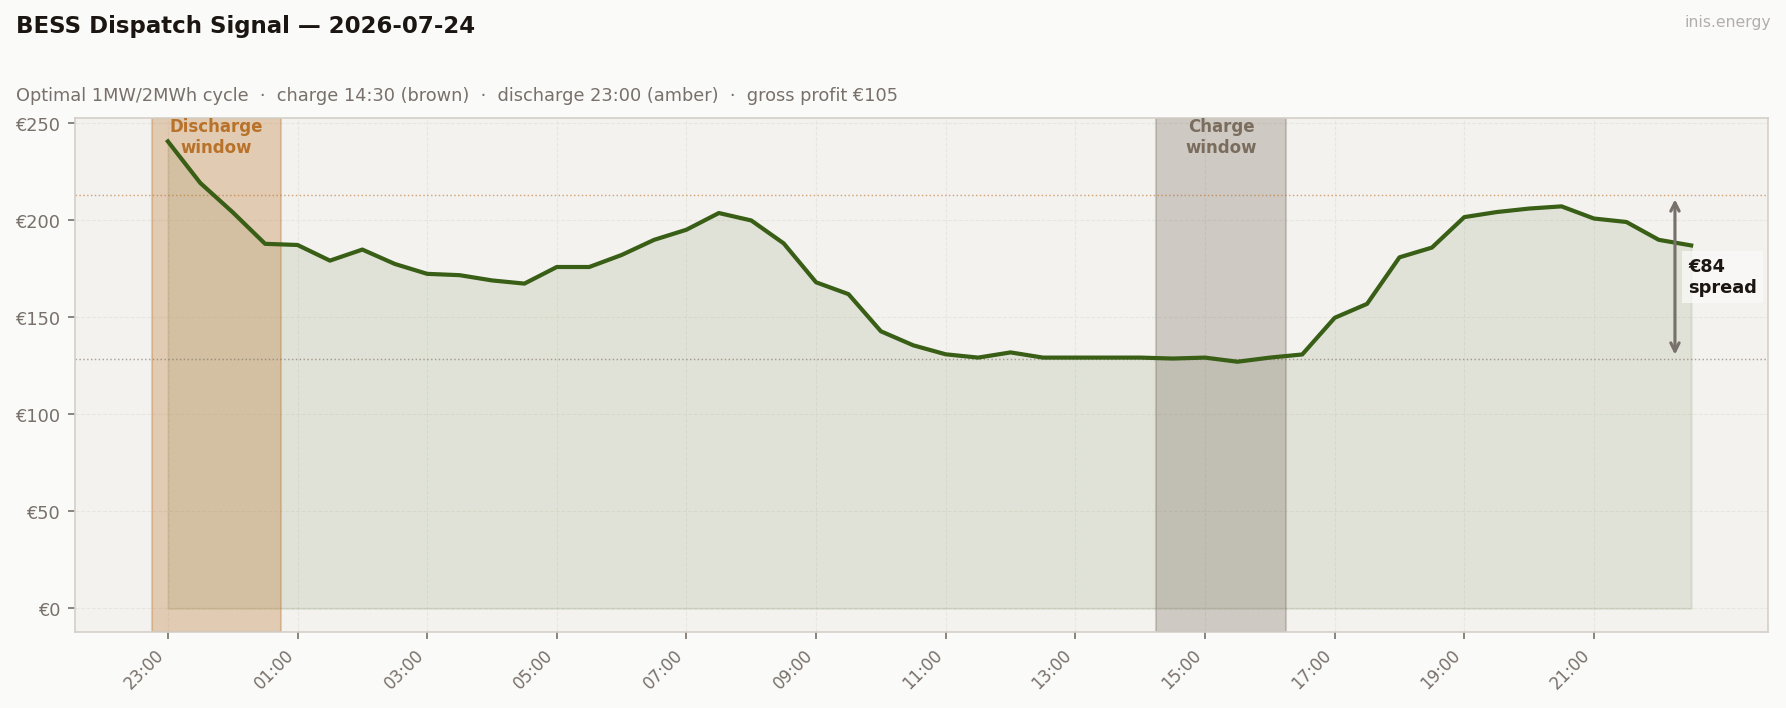
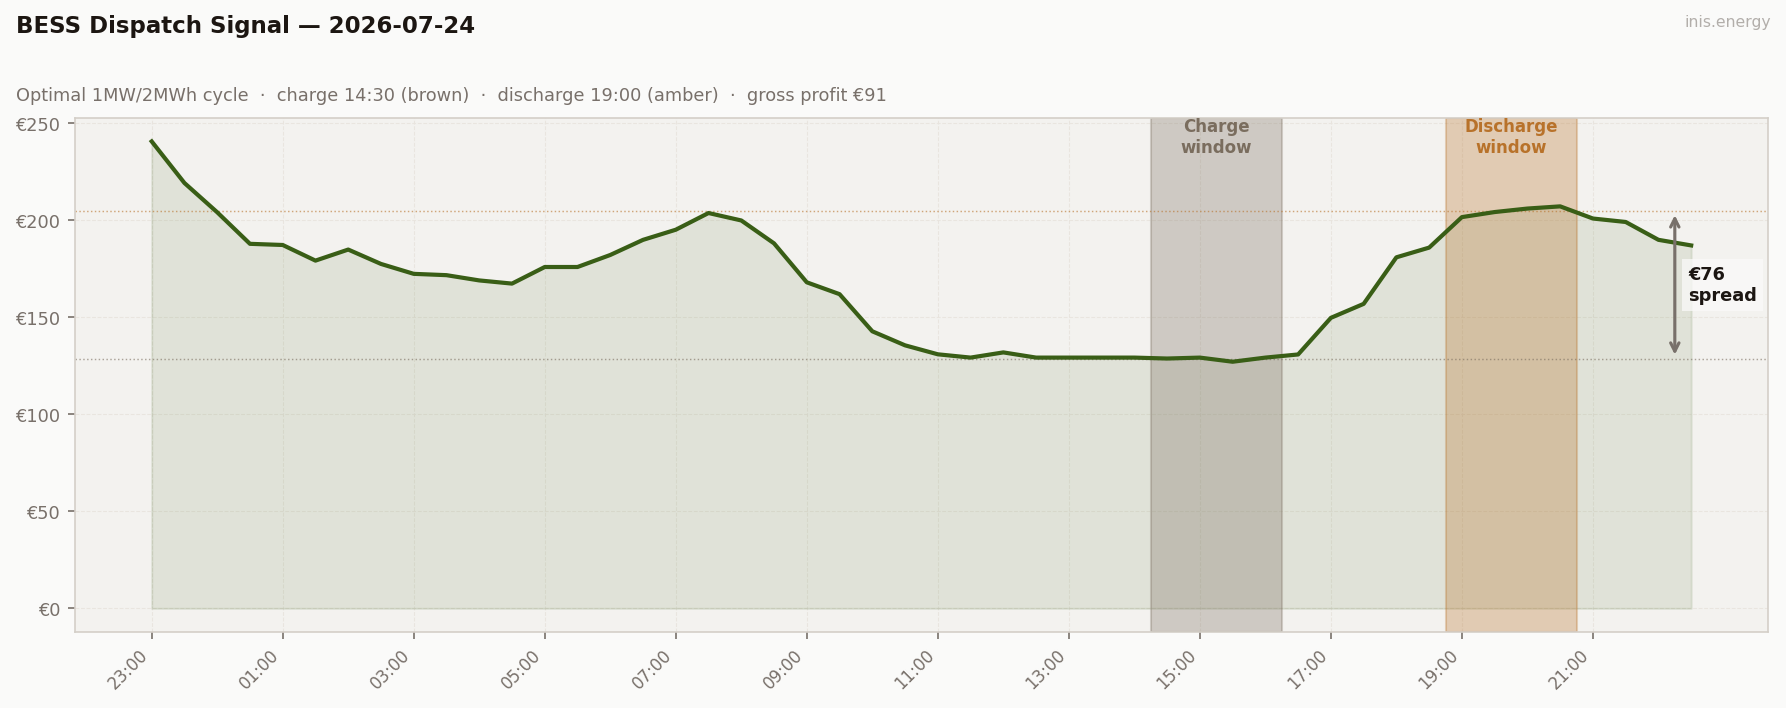
Fix BESS causality bug; correct 7 posts with no affected prose
simulate_bess previously chose charge/discharge windows independently
(idxmin/idxmax with no ordering), producing physically impossible
sell-before-buy cycles. Now the discharge window is constrained to
start after the charge window ends.

These 7 posts had no body prose referencing the old dispatch figures,
so the table/chart correction plus a per-post methodology note fully
resolves them. 14 other affected posts have narrative prose built on
the old numbers and need editorial review before correction.

diff --git a/pipeline/bess.py b/pipeline/bess.py
@@ -9,7 +9,7 @@ Assumptions:
   - 2 MWh usable capacity
   - Charge window: 4 consecutive half-hours at lowest prices
   - Discharge window: 4 consecutive half-hours at highest prices
-  - No constraint that discharge must follow charge (DAM arbitrage model)
+  - Discharge window must start after charge window ends (same-day only)
   - Round-trip efficiency: 85%
   - Result is gross — before network charges, capacity costs, degradation
 
@@ -36,11 +36,19 @@ def simulate_bess(df: pd.DataFrame) -> dict | None:
 
     rolling_sum = prices.rolling(4).sum()
 
-    # Find the 4-consecutive-period window with lowest / highest sum
+    # Charge window: the 4-consecutive-period window with lowest sum
     charge_end_idx = int(rolling_sum.idxmin())
-    discharge_end_idx = int(rolling_sum.idxmax())
-
     charge_idx = list(range(charge_end_idx - 3, charge_end_idx + 1))
+
+    # Discharge window: highest-sum 4-period window, but only among windows
+    # that start after the charge window ends (same-day causality — a battery
+    # can't sell energy it hasn't charged yet). Earliest valid discharge_end_idx
+    # is charge_end_idx + 4, so its own window doesn't overlap the charge window.
+    post_charge = rolling_sum.iloc[charge_end_idx + 4:]
+    if post_charge.empty:
+        return None  # no viable causal discharge window left in the day
+
+    discharge_end_idx = int(post_charge.idxmax())
     discharge_idx = list(range(discharge_end_idx - 3, discharge_end_idx + 1))
 
     charge_mean = prices.iloc[charge_idx].mean()

diff --git a/site/content/daily/2026-06-14/index.md b/site/content/daily/2026-06-14/index.md
@@ -75,11 +75,13 @@ A sharply negative spread: -€59.8. Off-peak (€227.81) is the most expensive 
 | | Price | Time | Energy | Value |
 |--|--|--|--|--|
 | **Charge** | €116/MWh | 13:30 | 2 MWh | −€232 |
-| **Discharge** | €276/MWh | 02:00 | 1.7 MWh (85% RTE) | +€470 |
-| **Gross profit** | | | | **€238** |
-| **Price spread** | €160/MWh | | | **ROI: 102.4%** |
+| **Discharge** | €181/MWh | 19:00 | 1.7 MWh (85% RTE) | +€307 |
+| **Gross profit** | | | | **€75** |
+| **Price spread** | €65/MWh | | | **ROI: 32.2%** |
 
 *Simulated 1MW/2MWh battery, one optimal DAM cycle. Gross before network charges and capacity costs.*
+
+*Updated 2026-08-25: the BESS simulation previously allowed the discharge window to occur before the charge window ended, which is physically impossible for a battery. This day's figure was recalculated enforcing charge-before-discharge; gross profit corrected from €238 to €75.*
 
 ![BESS Dispatch](/charts/2026-06-14/bess-2026-06-14.png)
 

diff --git a/site/content/daily/2026-07-16/index.md b/site/content/daily/2026-07-16/index.md
@@ -65,11 +65,13 @@ draft: false
 | | Price | Time | Energy | Value |
 |--|--|--|--|--|
 | **Charge** | €154/MWh | 14:00 | 2 MWh | −€308 |
-| **Discharge** | €287/MWh | 07:00 | 1.7 MWh (85% RTE) | +€488 |
-| **Gross profit** | | | | **€179** |
-| **Price spread** | €133/MWh | | | **ROI: 58.1%** |
+| **Discharge** | €267/MWh | 19:30 | 1.7 MWh (85% RTE) | +€454 |
+| **Gross profit** | | | | **€146** |
+| **Price spread** | €113/MWh | | | **ROI: 47.2%** |
 
 *Simulated 1MW/2MWh battery, one optimal DAM cycle. Gross before network charges and capacity costs.*
+
+*Updated 2026-08-25: the BESS simulation previously allowed the discharge window to occur before the charge window ended, which is physically impossible for a battery. This day's figure was recalculated enforcing charge-before-discharge; gross profit corrected from €179 to €146.*
 
 ![BESS Dispatch](/charts/2026-07-16/bess-2026-07-16.png)
 

diff --git a/site/content/daily/2026-07-19/index.md b/site/content/daily/2026-07-19/index.md
@@ -65,11 +65,13 @@ draft: false
 | | Price | Time | Energy | Value |
 |--|--|--|--|--|
 | **Charge** | €115/MWh | 13:30 | 2 MWh | −€231 |
-| **Discharge** | €220/MWh | 02:00 | 1.7 MWh (85% RTE) | +€375 |
-| **Gross profit** | | | | **€144** |
-| **Price spread** | €105/MWh | | | **ROI: 62.2%** |
+| **Discharge** | €207/MWh | 20:30 | 1.7 MWh (85% RTE) | +€352 |
+| **Gross profit** | | | | **€122** |
+| **Price spread** | €92/MWh | | | **ROI: 52.6%** |
 
 *Simulated 1MW/2MWh battery, one optimal DAM cycle. Gross before network charges and capacity costs.*
+
+*Updated 2026-08-25: the BESS simulation previously allowed the discharge window to occur before the charge window ended, which is physically impossible for a battery. This day's figure was recalculated enforcing charge-before-discharge; gross profit corrected from €144 to €122.*
 
 ![BESS Dispatch](/charts/2026-07-19/bess-2026-07-19.png)
 

diff --git a/site/content/daily/2026-07-17/index.md b/site/content/daily/2026-07-17/index.md
@@ -65,11 +65,13 @@ draft: false
 | | Price | Time | Energy | Value |
 |--|--|--|--|--|
 | **Charge** | €116/MWh | 13:30 | 2 MWh | −€233 |
-| **Discharge** | €197/MWh | 23:00 | 1.7 MWh (85% RTE) | +€334 |
-| **Gross profit** | | | | **€101** |
-| **Price spread** | €80/MWh | | | **ROI: 43.4%** |
+| **Discharge** | €174/MWh | 19:00 | 1.7 MWh (85% RTE) | +€297 |
+| **Gross profit** | | | | **€64** |
+| **Price spread** | €58/MWh | | | **ROI: 27.3%** |
 
 *Simulated 1MW/2MWh battery, one optimal DAM cycle. Gross before network charges and capacity costs.*
+
+*Updated 2026-08-25: the BESS simulation previously allowed the discharge window to occur before the charge window ended, which is physically impossible for a battery. This day's figure was recalculated enforcing charge-before-discharge; gross profit corrected from €101 to €64.*
 
 ![BESS Dispatch](/charts/2026-07-17/bess-2026-07-17.png)
 

diff --git a/site/content/daily/2026-07-24/index.md b/site/content/daily/2026-07-24/index.md
@@ -65,11 +65,13 @@ draft: false
 | | Price | Time | Energy | Value |
 |--|--|--|--|--|
 | **Charge** | €129/MWh | 14:30 | 2 MWh | −€257 |
-| **Discharge** | €213/MWh | 23:00 | 1.7 MWh (85% RTE) | +€362 |
-| **Gross profit** | | | | **€105** |
-| **Price spread** | €84/MWh | | | **ROI: 40.8%** |
+| **Discharge** | €205/MWh | 19:00 | 1.7 MWh (85% RTE) | +€348 |
+| **Gross profit** | | | | **€91** |
+| **Price spread** | €76/MWh | | | **ROI: 35.4%** |
 
 *Simulated 1MW/2MWh battery, one optimal DAM cycle. Gross before network charges and capacity costs.*
+
+*Updated 2026-08-25: the BESS simulation previously allowed the discharge window to occur before the charge window ended, which is physically impossible for a battery. This day's figure was recalculated enforcing charge-before-discharge; gross profit corrected from €105 to €91.*
 
 ![BESS Dispatch](/charts/2026-07-24/bess-2026-07-24.png)
 

diff --git a/site/content/daily/2026-07-13/index.md b/site/content/daily/2026-07-13/index.md
@@ -65,11 +65,13 @@ draft: false
 | | Price | Time | Energy | Value |
 |--|--|--|--|--|
 | **Charge** | €96/MWh | 13:00 | 2 MWh | −€192 |
-| **Discharge** | €189/MWh | 07:00 | 1.7 MWh (85% RTE) | +€322 |
-| **Gross profit** | | | | **€130** |
-| **Price spread** | €93/MWh | | | **ROI: 67.4%** |
+| **Discharge** | €170/MWh | 19:30 | 1.7 MWh (85% RTE) | +€289 |
+| **Gross profit** | | | | **€97** |
+| **Price spread** | €74/MWh | | | **ROI: 50.3%** |
 
 *Simulated 1MW/2MWh battery, one optimal DAM cycle. Gross before network charges and capacity costs.*
+
+*Updated 2026-08-25: the BESS simulation previously allowed the discharge window to occur before the charge window ended, which is physically impossible for a battery. This day's figure was recalculated enforcing charge-before-discharge; gross profit corrected from €130 to €97.*
 
 ![BESS Dispatch](/charts/2026-07-13/bess-2026-07-13.png)
 

diff --git a/site/content/daily/2026-08-04/index.md b/site/content/daily/2026-08-04/index.md
@@ -56,11 +56,13 @@ draft: false
 | | Price | Time | Energy | Value |
 |--|--|--|--|--|
 | **Charge** | €131/MWh | 14:00 | 2 MWh | −€262 |
-| **Discharge** | €194/MWh | 07:30 | 1.7 MWh (85% RTE) | +€329 |
-| **Gross profit** | | | | **€67** |
-| **Price spread** | €63/MWh | | | **ROI: 25.7%** |
+| **Discharge** | €183/MWh | 19:00 | 1.7 MWh (85% RTE) | +€311 |
+| **Gross profit** | | | | **€49** |
+| **Price spread** | €52/MWh | | | **ROI: 18.8%** |
 
 *Simulated 1MW/2MWh battery, one optimal DAM cycle. Gross before network charges and capacity costs.*
+
+*Updated 2026-08-25: the BESS simulation previously allowed the discharge window to occur before the charge window ended, which is physically impossible for a battery. This day's figure was recalculated enforcing charge-before-discharge; gross profit corrected from €67 to €49.*
 
 ![BESS Dispatch](/charts/2026-08-04/bess-2026-08-04.png)
 
